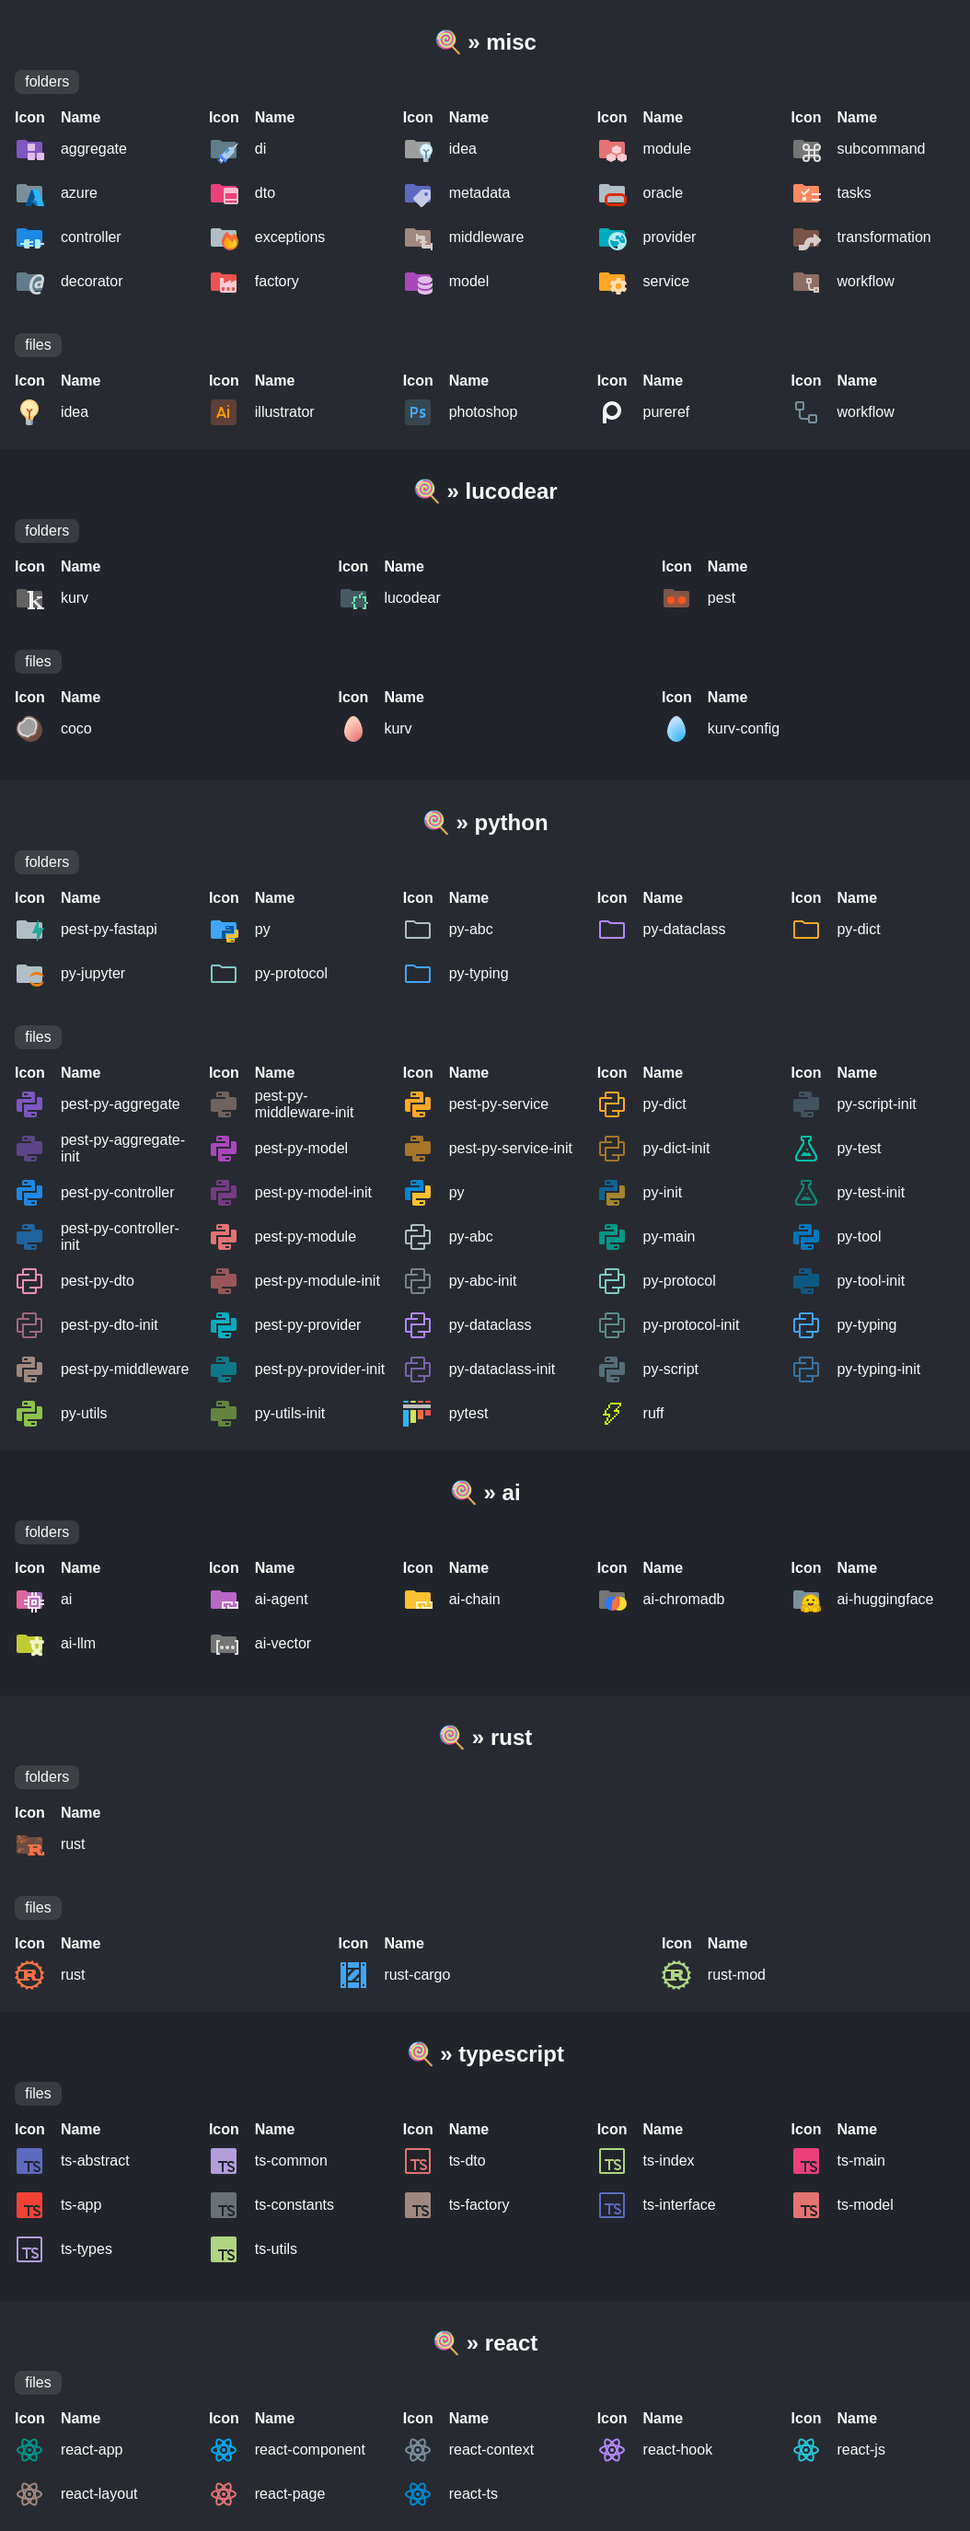
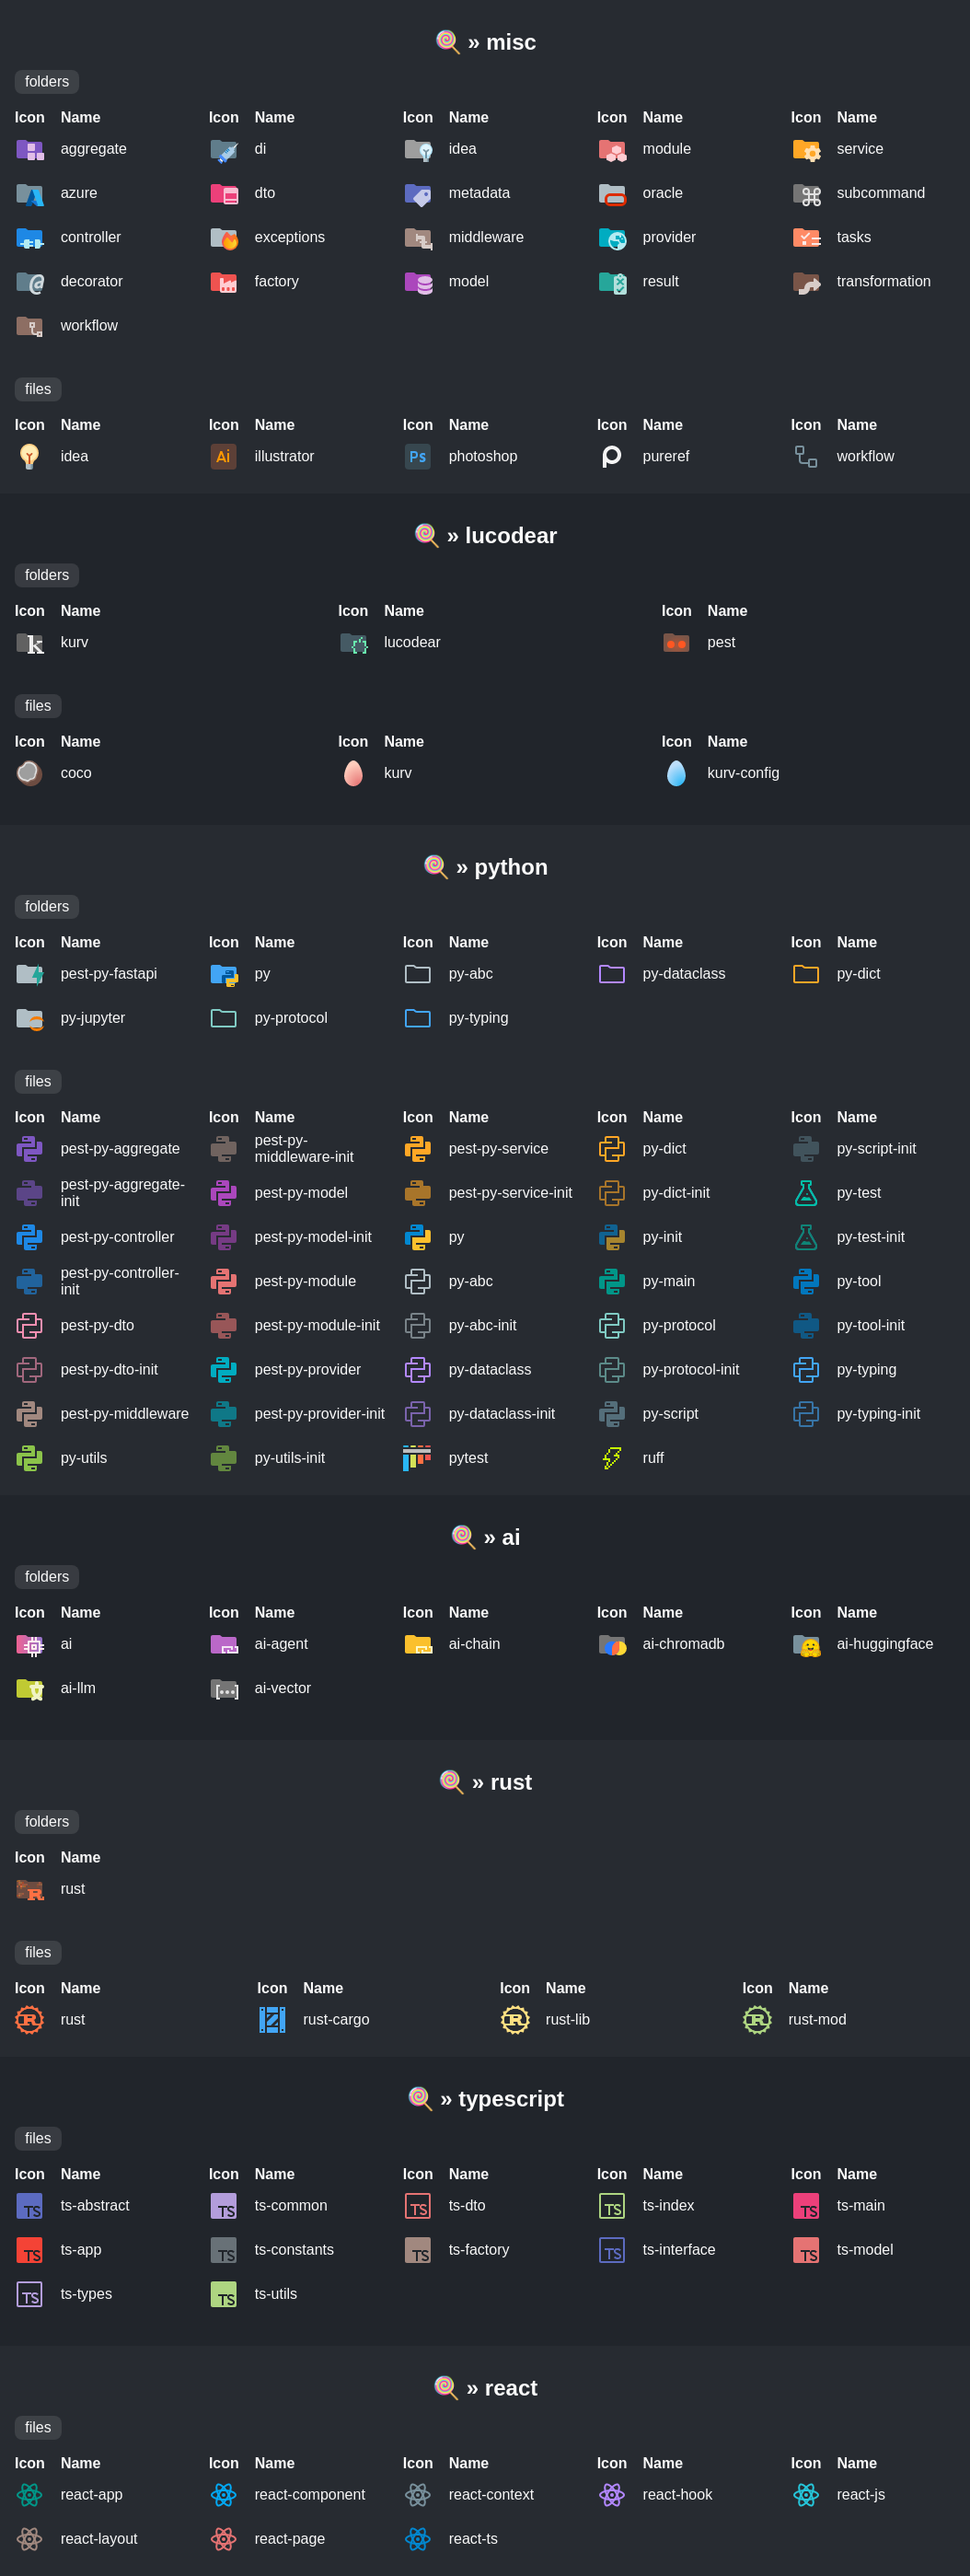
release: 🔖 v0.19.0

diff --git a/CHANGELOG.md b/CHANGELOG.md
@@ -3,10 +3,18 @@
  All notable changes to this project will be documented in this file. Dates are displayed in UTC.
 
  
+#### [v0.19.0](https://github.com/PKief/vscode-material-icon-theme/compare/v0.18.0...v0.19.0) 
+
+> February 20, 2024 
+
+- feat: ✨ rust lib.rs file icon [`4c9d99c3`](https://github.com/PKief/vscode-material-icon-theme/commit/4c9d99c3)
+- feat: ✨ misc: result folder [`f70615a4`](https://github.com/PKief/vscode-material-icon-theme/commit/f70615a4)
+ 
 #### [v0.18.0](https://github.com/PKief/vscode-material-icon-theme/compare/v0.17.0...v0.18.0) 
 
 > February 20, 2024 
 
+- release: 🔖 v0.18.0 [`049e4104`](https://github.com/PKief/vscode-material-icon-theme/commit/049e4104)
 - feat: ✨ change Cargo.toml icon color [`fdf7b625`](https://github.com/PKief/vscode-material-icon-theme/commit/fdf7b625)
  
 #### [v0.17.0](https://github.com/PKief/vscode-material-icon-theme/compare/v0.16.0...v0.17.0) 
